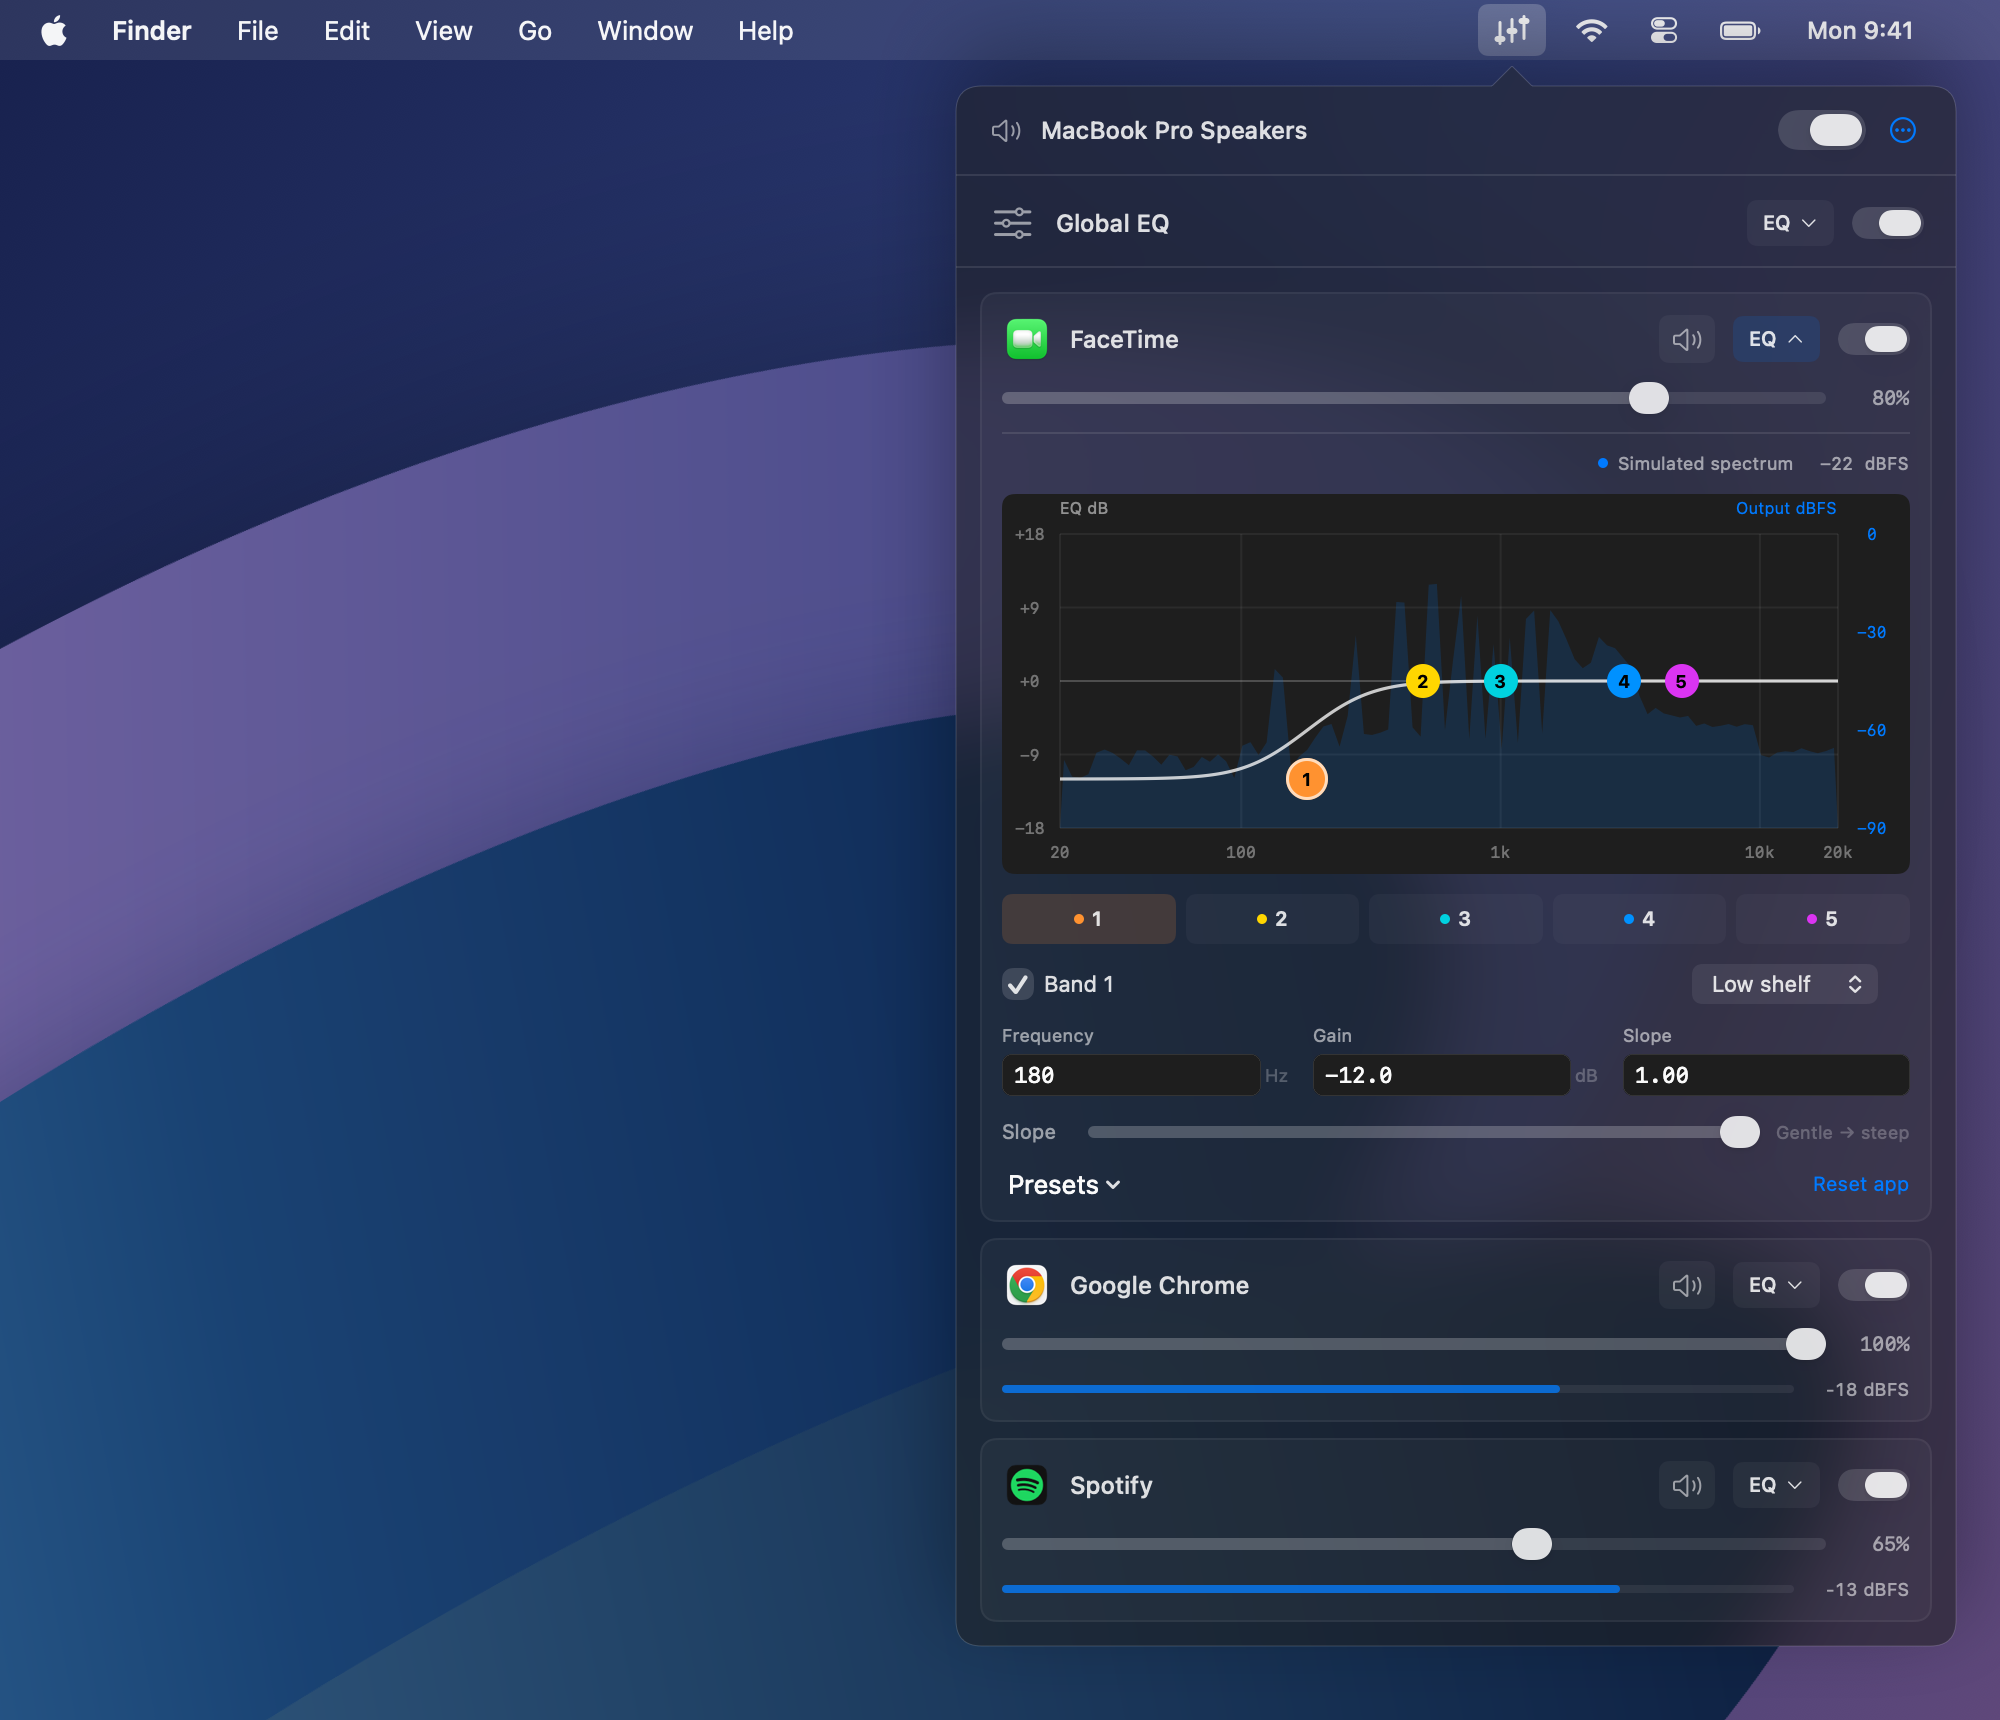
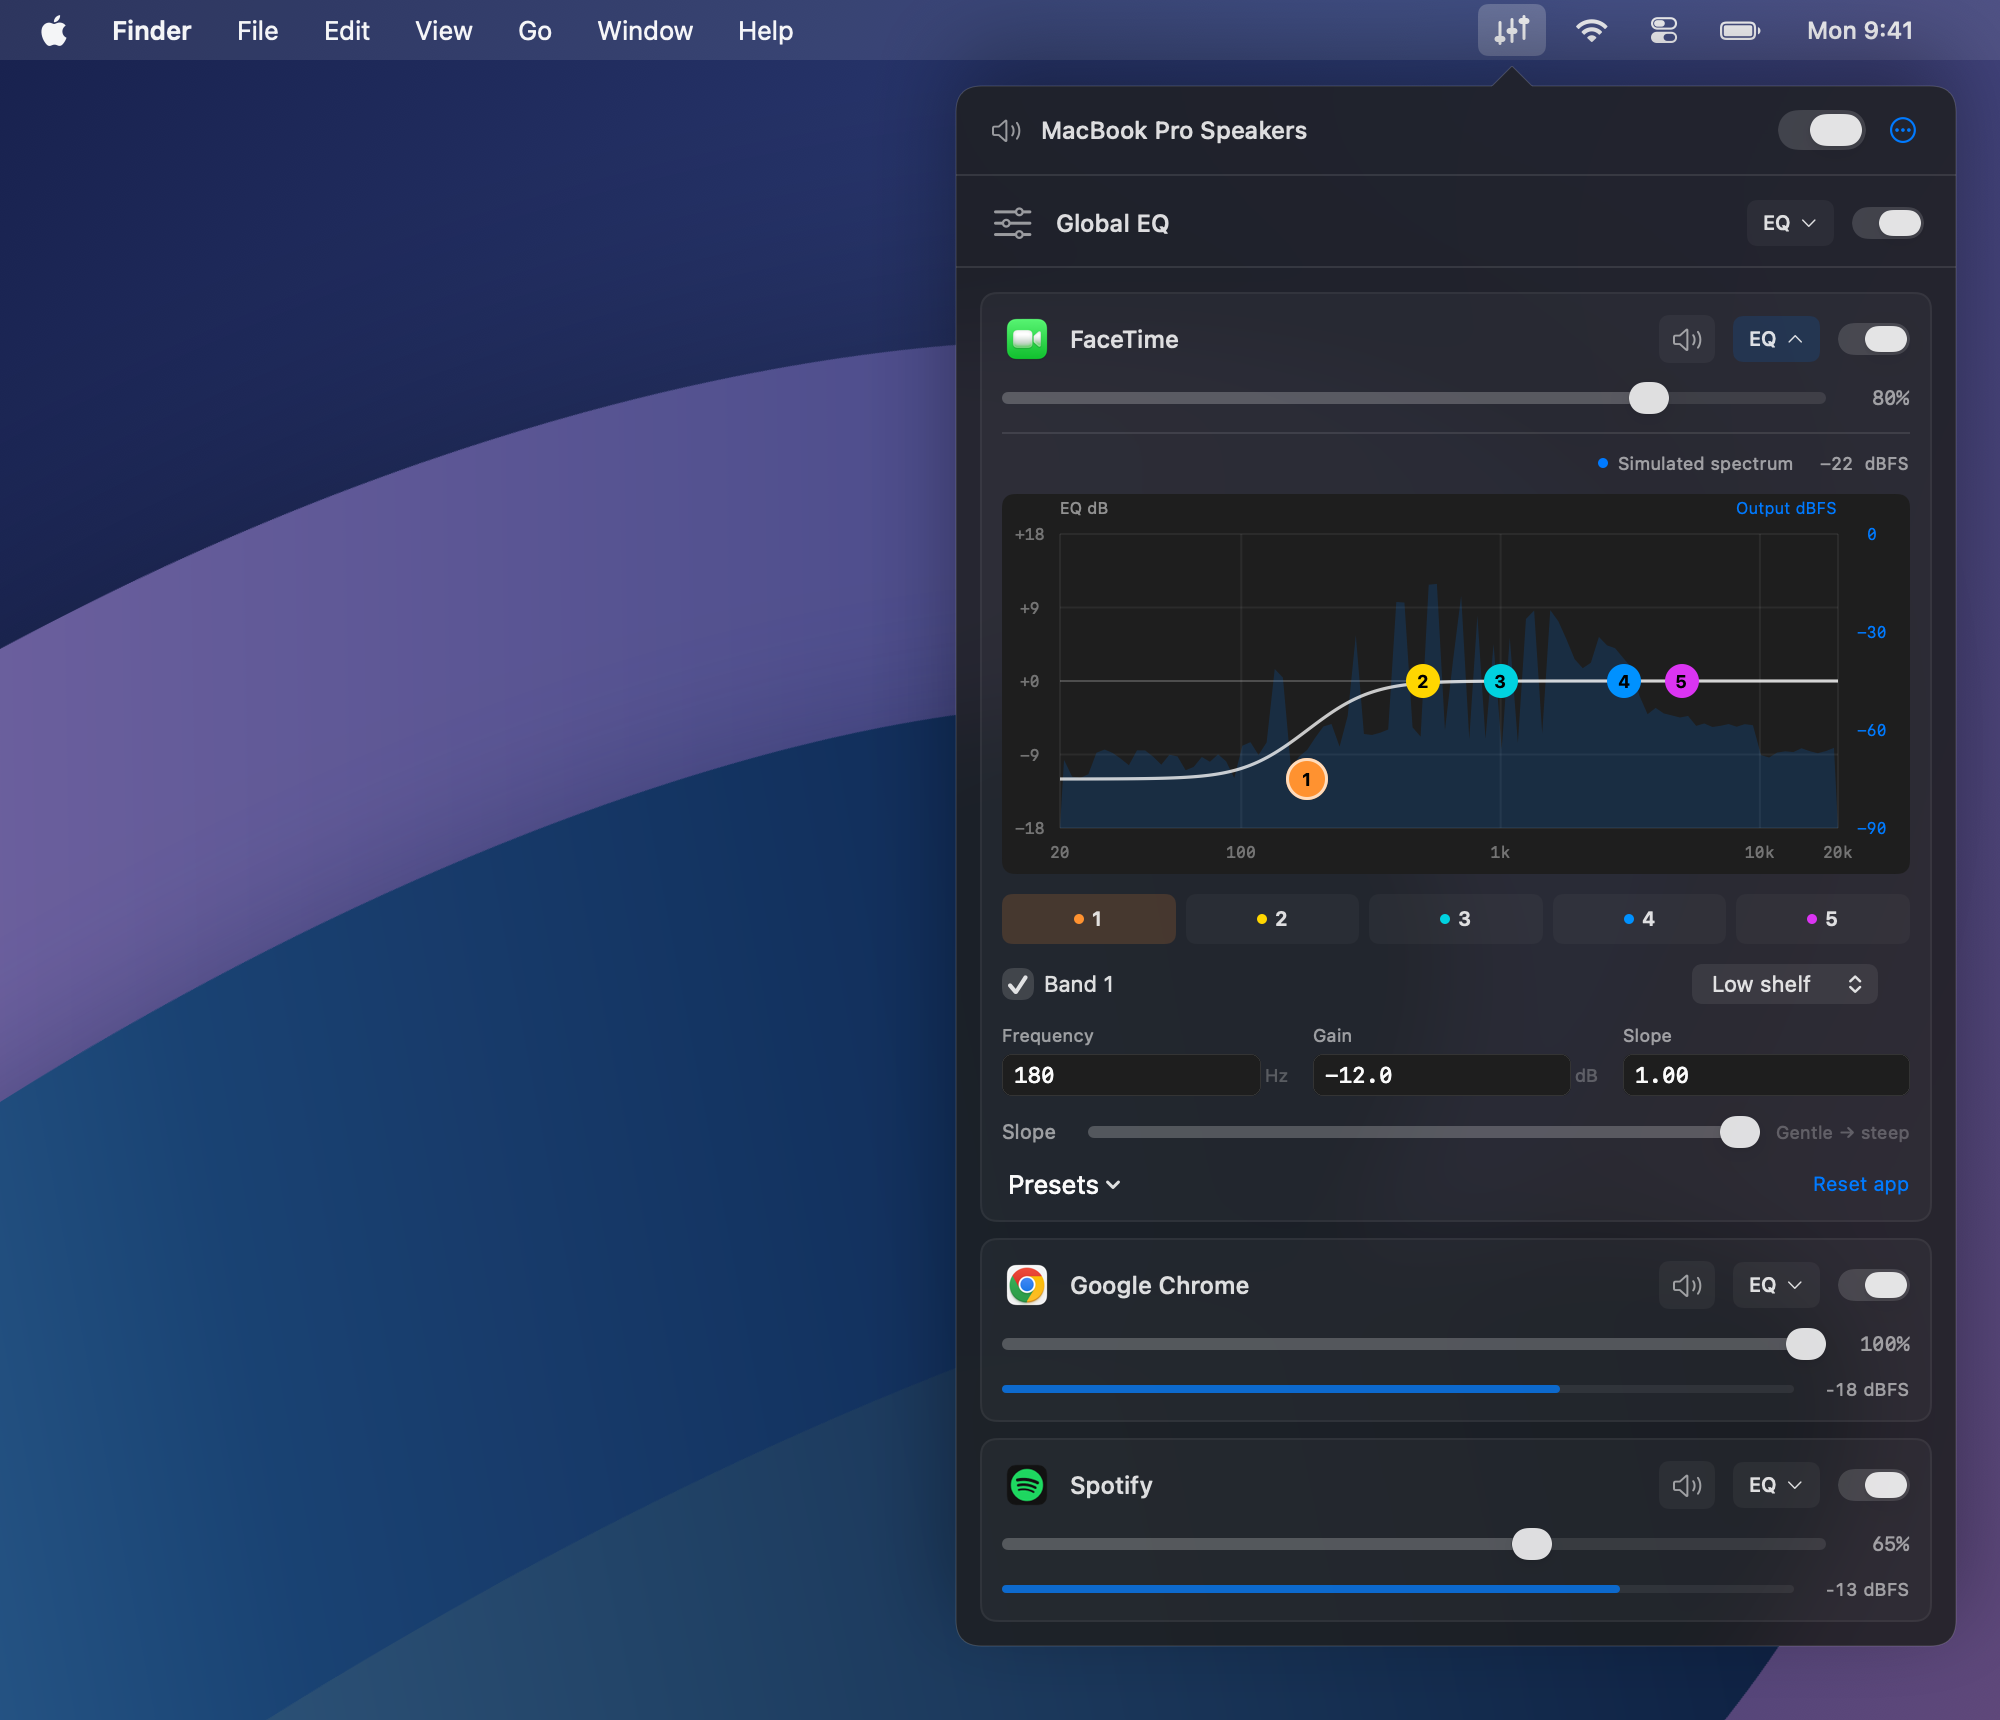
Account for native material opacity in README previews

diff --git a/QEQ/App/Sources/DesktopScreenshot.swift b/QEQ/App/Sources/DesktopScreenshot.swift
@@ -12,6 +12,9 @@ struct DesktopScreenshot: View {
     var blurredWallpaper: NSImage? = nil
     private var canvasHeight: CGFloat { max(720, panelHeight + 80) }
     private let panelOrigin = CGPoint(x: 478, y: 33)
+    // Approximate the native popover material's backing before our extra tint.
+    // Together these leave 18% of the wallpaper visible, rather than 45%.
+    private let materialBackingOpacity = 0.60
 
     var body: some View {
         ZStack(alignment: .topLeading) {
@@ -22,13 +25,14 @@ struct DesktopScreenshot: View {
                 .frame(width: 500, height: panelHeight + 10)
                 .background {
                     // Bitmap capture cannot include WindowServer's behind-window
-                    // material. Blur the matching region of our own wallpaper,
-                    // then apply the live panel's tint. Spectrum fills stay opaque.
+                    // material. Blur our wallpaper, approximate the material's
+                    // backing, then add the live tint. Spectrum fills stay opaque.
                     if let blurredWallpaper {
                         Image(nsImage: blurredWallpaper)
                             .resizable().frame(width: 1000, height: canvasHeight)
                             .offset(x: -panelOrigin.x, y: -panelOrigin.y)
                             .frame(width: 500, height: panelHeight + 10, alignment: .topLeading)
+                            .overlay(Color(nsColor: .windowBackgroundColor).opacity(materialBackingOpacity))
                             .overlay(Color(nsColor: .windowBackgroundColor).opacity(PanelBackground.tintOpacity))
                     }
                 }

diff --git a/docs/DEVELOPMENT.md b/docs/DEVELOPMENT.md
@@ -123,7 +123,7 @@ python3 QEQ/scripts/screenshots.py --check
 
 The screenshot command renders the real SwiftUI views with labeled fixture settings in an offscreen app window. It never starts the audio engine, reads saved settings, or captures the screen. It also checks empty, populated, app/global EQ, long-list, smaller-screen and removal layouts. The source and image fingerprints in `docs/media/screenshots.json` prevent stale README screenshots from shipping. CI renders from its just-built app using `--skip-build`; normal preparation builds first. Screenshot fixtures use deterministic synthesized PCM (music harmonics, voiced speech, and noise), measured with a Hann-windowed FFT and labeled as simulated. The displayed EQ and volume are applied to those spectra; no live audio is captured.
 
-The same command produces `desktop-mixer.png` and `desktop-app-equalizer.png` for the README: the actual app UI on an illustrated desktop with a mock menu bar and QEQ’s menu bar icon. The panel composites a blurred, spatially aligned copy of that illustrated wallpaper beneath the real UI, using the live app's shared 55% window-color tint; spectrum plots remain opaque. This approximates native translucency because offscreen bitmap rendering cannot capture WindowServer's behind-window material. The arrow and panel share one continuous backdrop. Both render at 2000 pixels wide; the desktop height grows to fit the panel without cropping. The primary README image expands FaceTime’s EQ with a bass cut while Chrome and Spotify stay collapsed. `DesktopScreenshot.swift` owns the composition, `ScreenshotAudio.swift` generates the audio fixtures, and `ScreenshotControls.swift` supplies clean field borders for offscreen capture only. These images are included in the source/checksum manifest and existing CI/release screenshot artifacts.
+The same command produces `desktop-mixer.png` and `desktop-app-equalizer.png` for the README: the actual app UI on an illustrated desktop with a mock menu bar and QEQ’s menu bar icon. The panel composites a blurred, spatially aligned copy of that illustrated wallpaper beneath the real UI, using a 60% window-color backing to approximate the native material, followed by the live app's shared 55% tint (82% combined opacity); spectrum plots remain opaque. This approximates native translucency because offscreen bitmap rendering cannot capture WindowServer's behind-window material. The arrow and panel share one continuous backdrop. Both render at 2000 pixels wide; the desktop height grows to fit the panel without cropping. The primary README image expands FaceTime’s EQ with a bass cut while Chrome and Spotify stay collapsed. `DesktopScreenshot.swift` owns the composition, `ScreenshotAudio.swift` generates the audio fixtures, and `ScreenshotControls.swift` supplies clean field borders for offscreen capture only. These images are included in the source/checksum manifest and existing CI/release screenshot artifacts.
 
 The icon was created with the built-in image-generation tool. The source asset and final prompt are in `QEQ/Branding/`. The generator script only creates the standard macOS icon sizes from that source. The package, modules, targets, and scripts use QEQ. The legacy `local.AppMixer` bundle identity is retained so existing settings and permission identity remain available. The menu bar uses a native template drawing of the three staggered slider rails and knobs, without the app icon’s panels or outer border.
 
